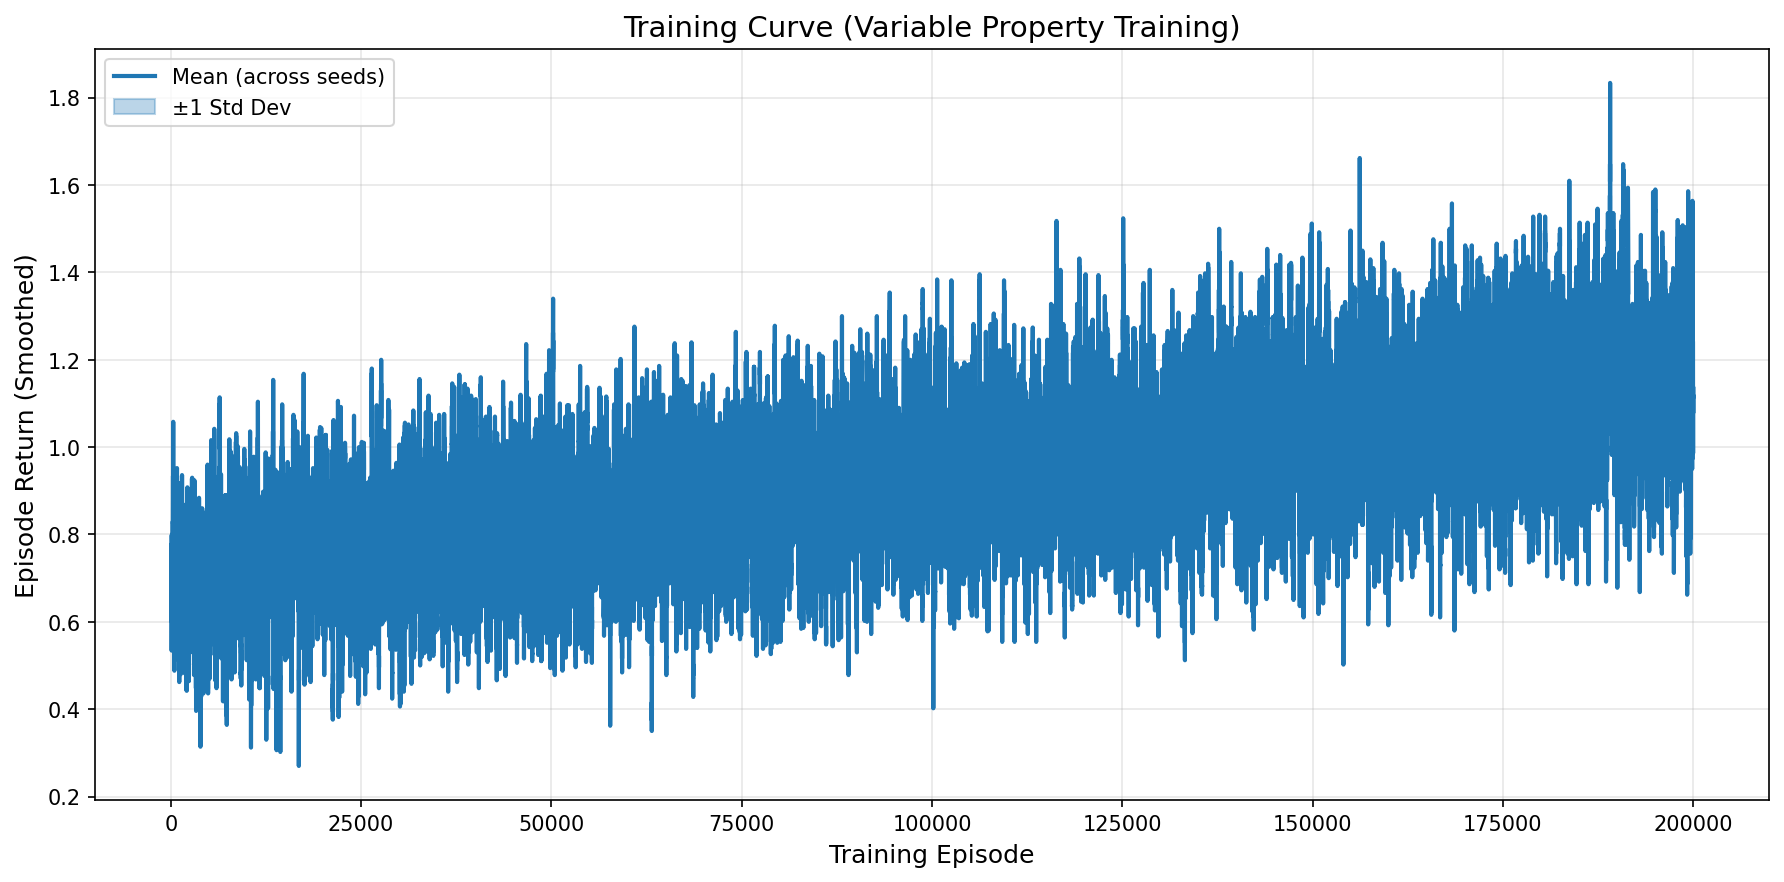
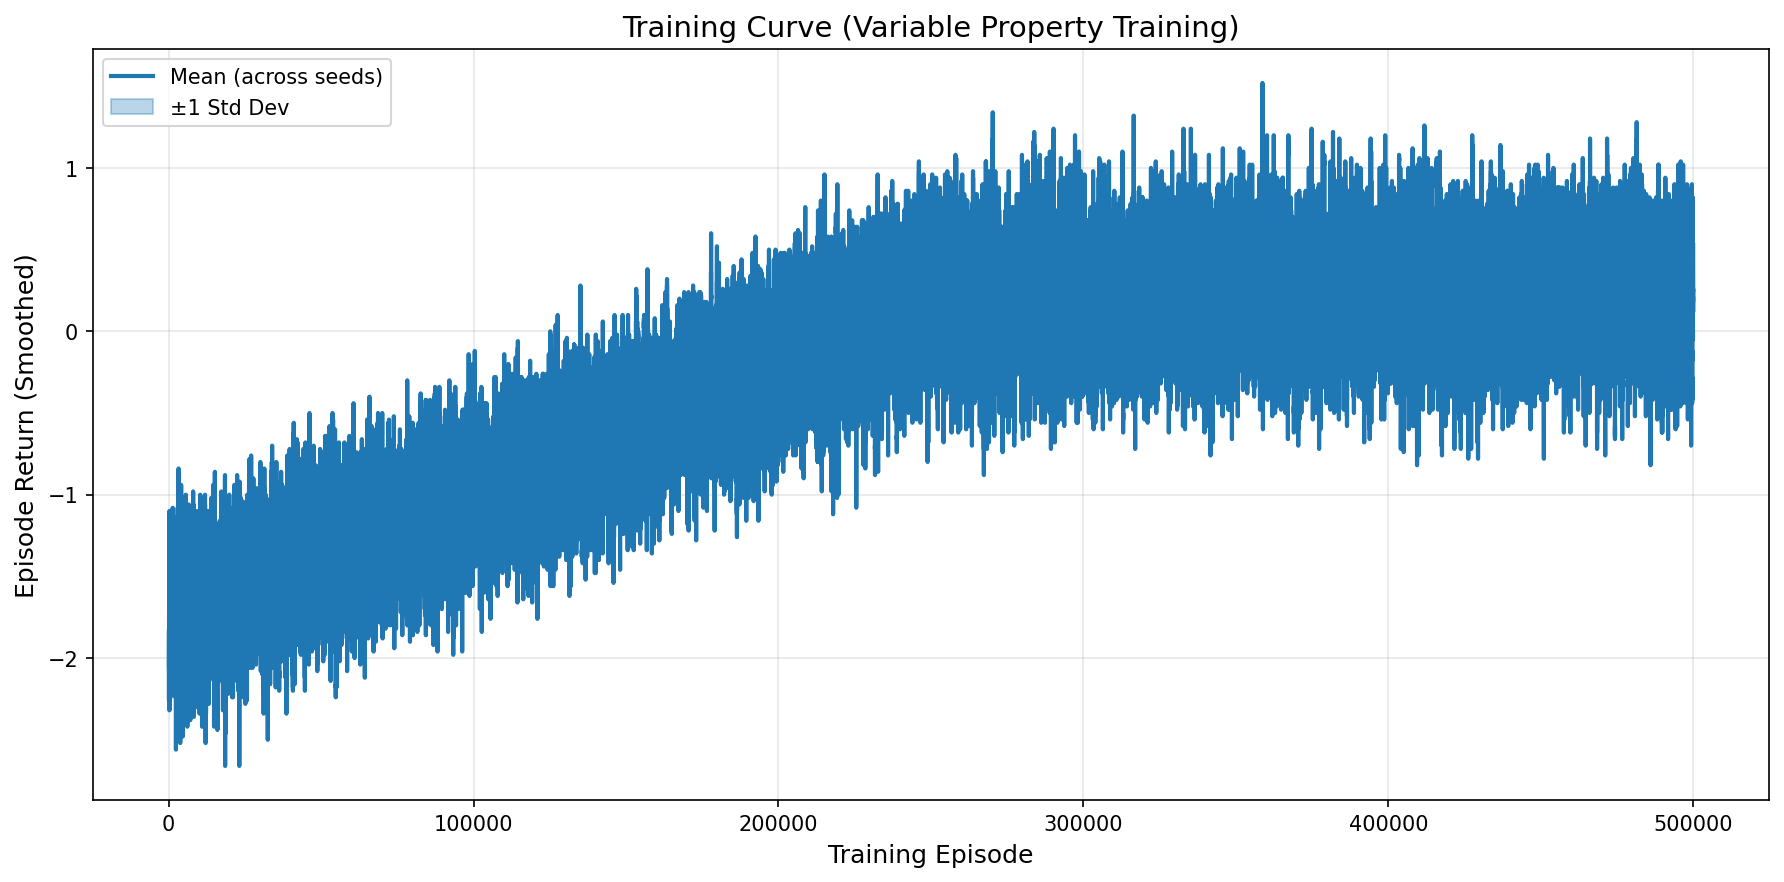
ran experiments

diff --git a/gridworld/environment.py b/gridworld/environment.py
@@ -325,7 +325,7 @@ class GridWorld:
                 if obj.has_any_property(self.reward_properties):
                     robot_reward += 1.0
                 else:
-                    robot_reward -= 0.1
+                    robot_reward -= 1.0
 
         # Remove collected objects
         for obj_id in objects_to_remove:
